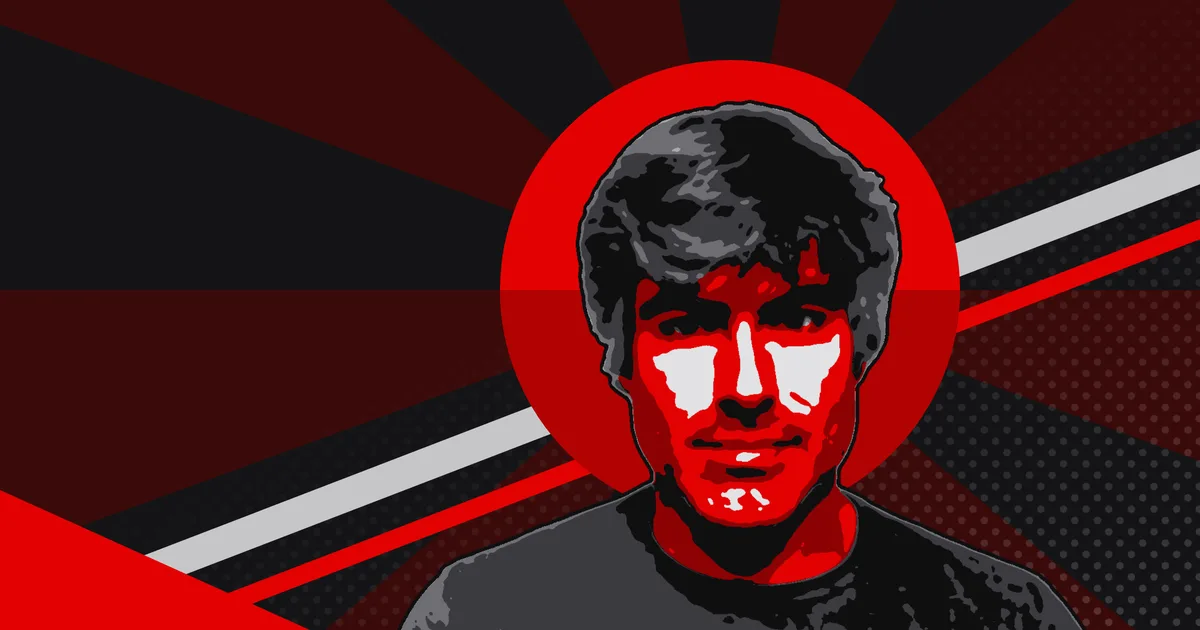
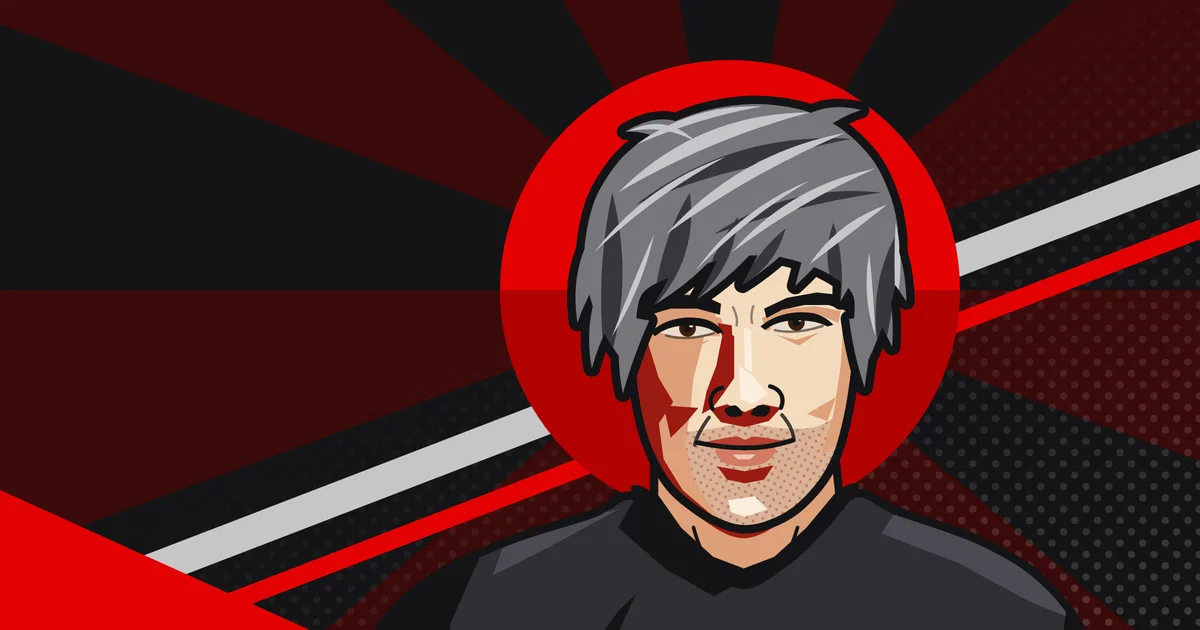
Redraw the About portrait as an illustrated propaganda poster
Replace the posterised photo with a hand-built vector illustration:
cream skin with tan and dark-red shadow planes, black ink outlines and
grey hair in tapered locks. Regenerate the About hero and OG images.

Changed region(s): [[0.4008, 0.1508, 0.925, 1.0], [0.3083, 0.8746, 0.4008, 1.0], [0.4933, 0.9651, 0.5242, 1.0]]

diff --git a/about/index.html b/about/index.html
@@ -43,7 +43,7 @@ j=d.createElement(s),dl=l!='dataLayer'?'&l='+l:'';j.async=true;j.src=
 <meta property="og:image" content="https://www.marketismo.com/assets/img/about/about-og.jpg">
 <meta property="og:image:width" content="1200">
 <meta property="og:image:height" content="630">
-<meta property="og:image:alt" content="Poster-style portrait of Marcelo Laserna in red, black and grey.">
+<meta property="og:image:alt" content="Illustrated propaganda-poster portrait of Marcelo Laserna in front of a red sun.">
 <meta name="twitter:card" content="summary_large_image">
 
 <link rel="preconnect" href="https://fonts.googleapis.com">
@@ -89,7 +89,7 @@ height="0" width="0" style="display:none;visibility:hidden"></iframe></noscript>
              srcset="/assets/img/about/about-1200.webp 1200w, /assets/img/about/about-2400.webp 2400w"
              sizes="(max-width: 900px) 100vw, 900px"
              width="1200" height="630"
-             alt="Poster-style portrait of Marcelo Laserna in red, black and grey, in front of a red sun and rays.">
+             alt="Illustrated propaganda-poster portrait of Marcelo Laserna, grey hair and cream skin with dark-red shadows, in front of a red sun and rays.">
       </figure>
 
       <div class="article-body">

diff --git a/index.html b/index.html
@@ -250,7 +250,7 @@ height="0" width="0" style="display:none;visibility:hidden"></iframe></noscript>
               <path d="M100 58 A46 46 0 0 0 192 58 Z" fill="#b10203"/>
               <path d="M0 126 L0 98 L62 126 Z" fill="#e20203"/>
               <g class="poster-portrait">
-                <image href="/assets/img/about/marcelo-poster.png" x="71" y="11" width="150" height="150"/>
+                <image href="/assets/img/about/marcelo-poster.svg" x="71" y="11" width="150" height="150"/>
               </g>
             </svg>
           </span>
